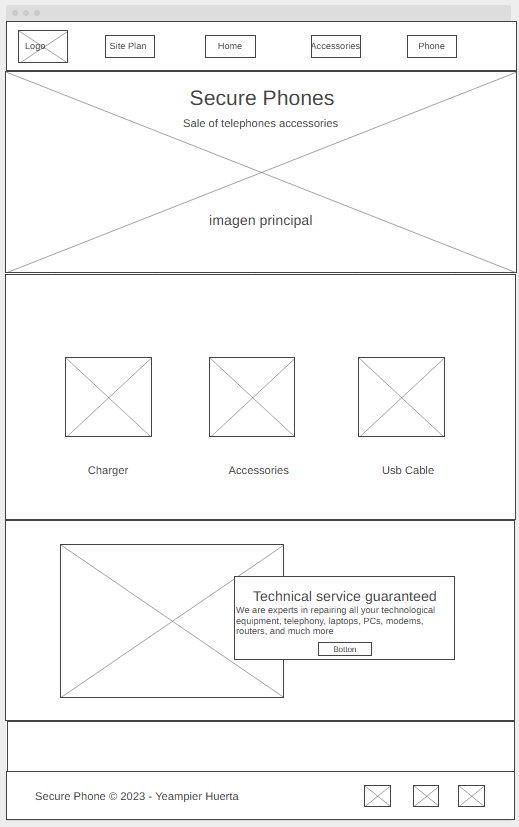
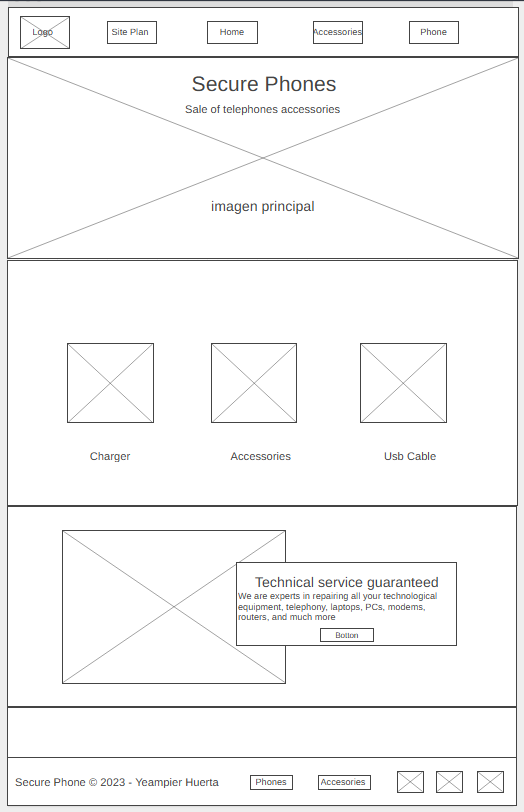
change wireframe

diff --git a/personalSitePlan.html b/personalSitePlan.html
@@ -205,14 +205,14 @@
       the possibilities of free standards and technologies.
 
     </p>
-    <img class="wireframe" src="./imagenes/wireframe2.png"alt="page 2 wireframe">
+    <img class="wireframe" src="./imagenes/wireframe(2).png"alt="page 2 wireframe">
 
     <h3>Service</h3>
     <p>
 
 
     </p>
-    <img class="wireframe" src="./imagenes/wireframe3.png" alt="page 3 wireframe">
+    <img class="wireframe" src="./imagenes/wireframe2.png" alt="page 3 wireframe">
   </main>
 </body>
 

diff --git a/page.html b/page.html
@@ -81,7 +81,7 @@
         <div>
           <img  class="corazon" src="./imagenes/006-like.png" alt="corazon" />
           <div class="contact-right">
-            <a href="/">Love</a>
+            <a href="/">Services</a>
             <p>
               Secure phones was born to meet the needs in the technology area
               and all its branches, has made us innovate to wholesale and retail

diff --git a/index.html b/index.html
@@ -87,7 +87,7 @@
     <footer>
       <p>Secure Phone © 2023 - Yeampier Huerta</p>
       <p><a href="page.html">Phones</a></p>
-      <p><a href="#">Contacts Us</a></p>
+      <p><a href="./accessories.html">Accessories</a></p>
       <div class="social">
         <a href="https://facebook.com" target="_blank">
           <img src="imagenes/facebook.png" alt="fb icon" />

diff --git a/styles/media.css b/styles/media.css
@@ -20,9 +20,16 @@
   .profile-main-container .profile-container {
     display: block;
   }
-  /* footer {
+  nav, footer {
+    flex-direction: column;
+  }
+   footer {
         margin-top: 25px;
-    } */
+    } 
+    nav a {
+        display: block;
+        padding: 15px;
+      }
 }
 @media (max-width: 400px) {
   .blogs-post-container .post-container {
